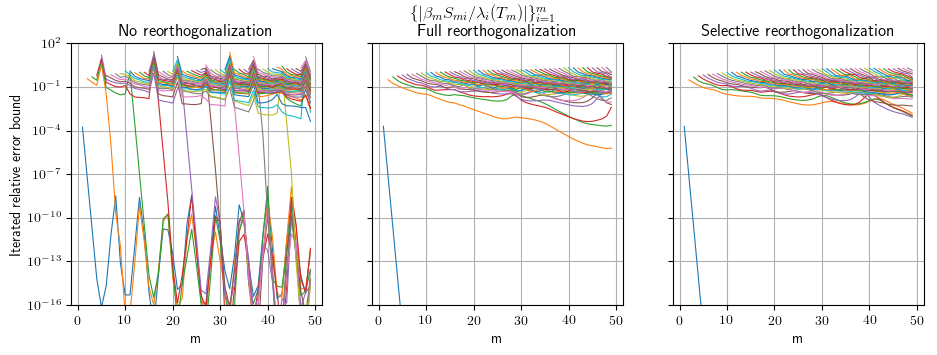
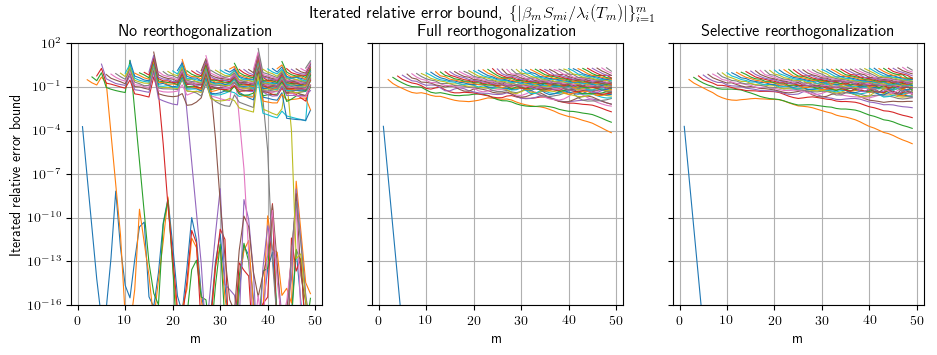
first-commit

diff --git a/examples/example01_lanczos_plot.py b/examples/example01_lanczos_plot.py
@@ -1,9 +1,6 @@
 import sys; sys.path += ["../"]
 from lanczos import lanczos
 import numpy as np 
-import scipy.sparse as sparse
-import scipy.sparse.linalg
-import time
 
 import pylab as pl 
 pl.rcParams['text.usetex'] = True
@@ -40,7 +37,7 @@ def plot(m, eigvals, approx_eigvals, approx_eigvals_full, approx_eigvals_selecti
   ax[2].semilogy(eigvals.shape[0]*[m+3], eigvals, "k_", lw=0)
   ax[1].set_ylim(ax[0].get_ylim()); ax[2].set_ylim(ax[0].get_ylim())
   ax[0].set_ylabel("Approximate eigenvalues")
-  fig.suptitle(r"$\{\lambda_i(T_m)\}_{i=1}^m$")
+  fig.suptitle("Approximate eigenvalues, "+r"$\{\lambda_i(T_m)\}_{i=1}^m$")
   ax[0].set_xlabel("m"); ax[1].set_xlabel("m"); ax[2].set_xlabel("m")
   pl.savefig(figures_path+"example01_lanczos_a.png", bbox_inches='tight')
   #pl.show()  
@@ -62,7 +59,7 @@ def plot(m, eigvals, approx_eigvals, approx_eigvals_full, approx_eigvals_selecti
   ax[1].set_ylim(ax[0].get_ylim()); ax[2].set_ylim(ax[0].get_ylim())
   ax[0].set_ylim(1e-16,1e2)
   ax[0].set_ylabel("Iterated relative error bound")
-  fig.suptitle(r"$\{|\beta_mS_{mi}/\lambda_i(T_m)|\}_{i=1}^m$")
+  fig.suptitle("Iterated relative error bound, "+r"$\{|\beta_mS_{mi}/\lambda_i(T_m)|\}_{i=1}^m$")
   for j in range(3):
     ax[j].set_xlabel("m")
     ax[j].grid()
@@ -90,9 +87,3 @@ def plot(m, eigvals, approx_eigvals, approx_eigvals_full, approx_eigvals_selecti
     ax[j].grid()
   pl.savefig(figures_path+"example01_lanczos_c.png", bbox_inches='tight')
   #pl.show()
-
-# TO DO:
-# Q1:    HOW DO YOU PICK m for a given n_eigvecs?
-#        You can not know this, see p. 239-240 of Dongara et al.'s book.
-# T2:    Implement restart strategies.
-#        Explicit vs implicit, see p. 239-240 of Dongara et al.'s book

diff --git a/examples/example01_lanczos.py b/examples/example01_lanczos.py
@@ -11,13 +11,18 @@ A = A.dot(A.T)
 m = 50
 npairs = 10
 
-eigvals = np.linalg.eigvalsh(A)[-1::-1]
+#eigvals = np.linalg.eigvalsh(A)[-1::-1]
+eigvals, eigvecs = np.linalg.eigh(A)
+eigvals = eigvals[-1::-1]
+eigvecs = eigvecs[:,-1::-1]
+q1 = None#eigvecs[:,4]+np.random.rand(n)*.005
+
 t0 = time.time()
-data = lanczos(A, npairs, m=m, eigvals=eigvals)
+data = lanczos(A, npairs, q1=q1, m=m, eigvals=eigvals)
 print("No reorthogonalization : %g" %(time.time()-t0)); t0 = time.time()
-data_full = lanczos(A, npairs, m=m, reortho="full", eigvals=eigvals)
+data_full = lanczos(A, npairs, q1=q1, m=m, reortho="full", eigvals=eigvals)
 print("Full reorthogonalization : %g" %(time.time()-t0)); t0 = time.time()
-data_selective = lanczos(A, npairs, m=m, reortho="selective", eigvals=eigvals)
+data_selective = lanczos(A, npairs, q1=q1, m=m, reortho="selective", eigvals=eigvals)
 print("Selective reorthogonalization : %g" %(time.time()-t0)); t0 = time.time()
 
 approx_eigvals, approx_eigvals_full, approx_eigvals_selective = [], [], []
@@ -43,7 +48,8 @@ plot(m, eigvals, approx_eigvals, approx_eigvals_full, approx_eigvals_selective,
      iterated_error_bound, iterated_error_bound_full, iterated_error_bound_selective)
 
 # TO DO:
-# Q1:    HOW DO YOU PICK m for a given n_eigvecs?
+# T1:    MAKE IT AS FAST AS POSSIBLE!
+# T2:    ALLOW for npairs <= m
+# T3:    Implement restart strategies.
+# Q1:    HOW TO PICK m for a given npairs?
 #        You can not know this, see p. 239-240 of Dongara et al.'s book.
-# T2:    Implement restart strategies.
-#        Explicit vs implicit, see p. 239-240 of Dongara et al.'s book

diff --git a/README.tex.md b/README.tex.md
@@ -82,7 +82,7 @@ iterated_error_bound_full = np.array(iterated_error_bound_full)
 iterated_error_bound_selective = np.array(iterated_error_bound_selective)
 
 plot(m, eigvals, approx_eigvals, approx_eigvals_full, approx_eigvals_selective, 
-     iterated_error_bound, iterated_error_bound_full, iterated_error_bound_selective)
+     iterated_error_bound, iterated_error_bound_full, iterated_error_bound_selective) 
 ```
 
 Output :
@@ -95,4 +95,6 @@ Output :
 
 Observations :
 
-Ghost (repeating) eigenvalues appear when no reorthogonalization is applied. 
+Ghost (repeating) eigenvalues appear when no reorthogonalization is applied.
+
+Memory requirements increase with m. Restart becomes necessary. 
